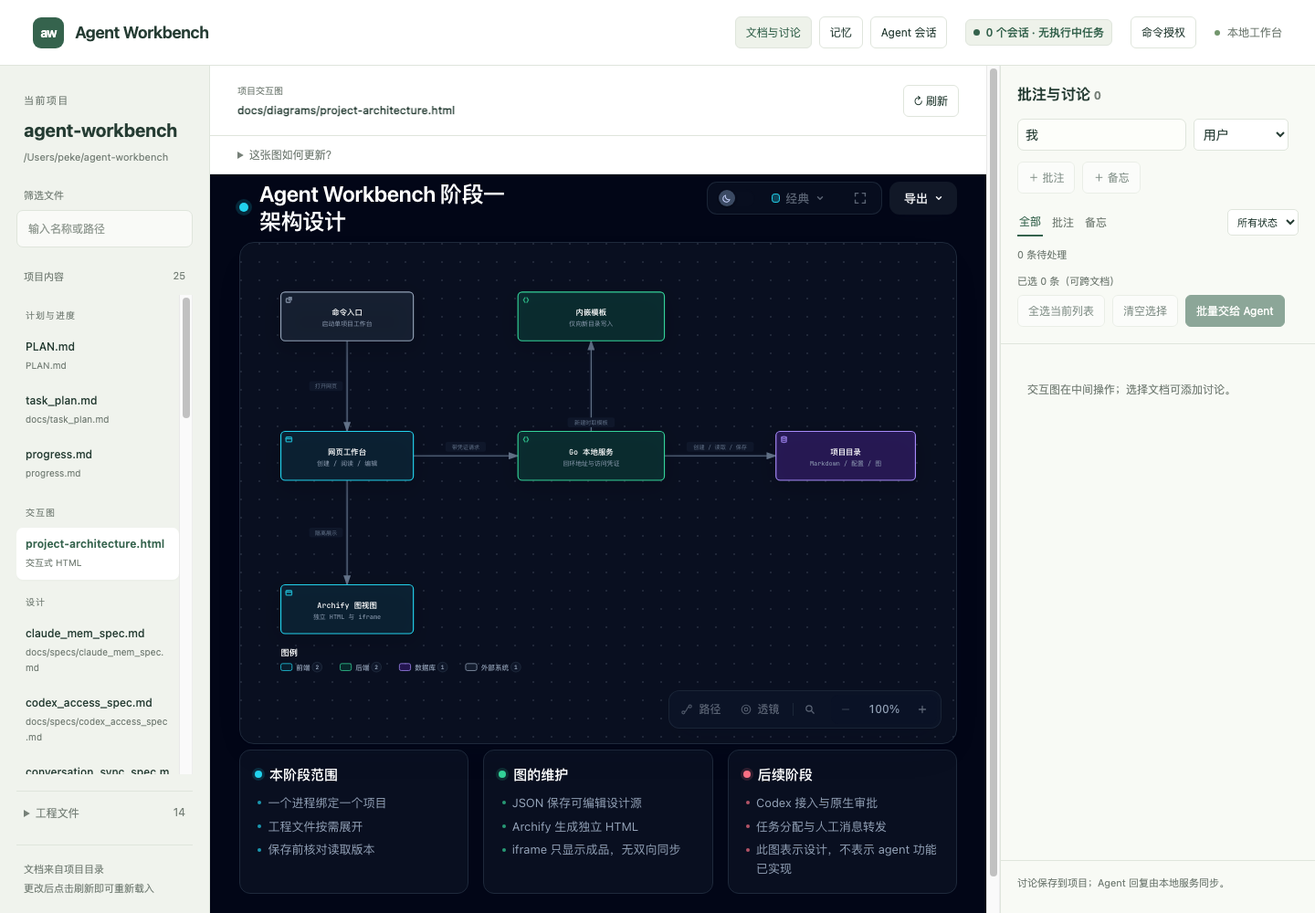
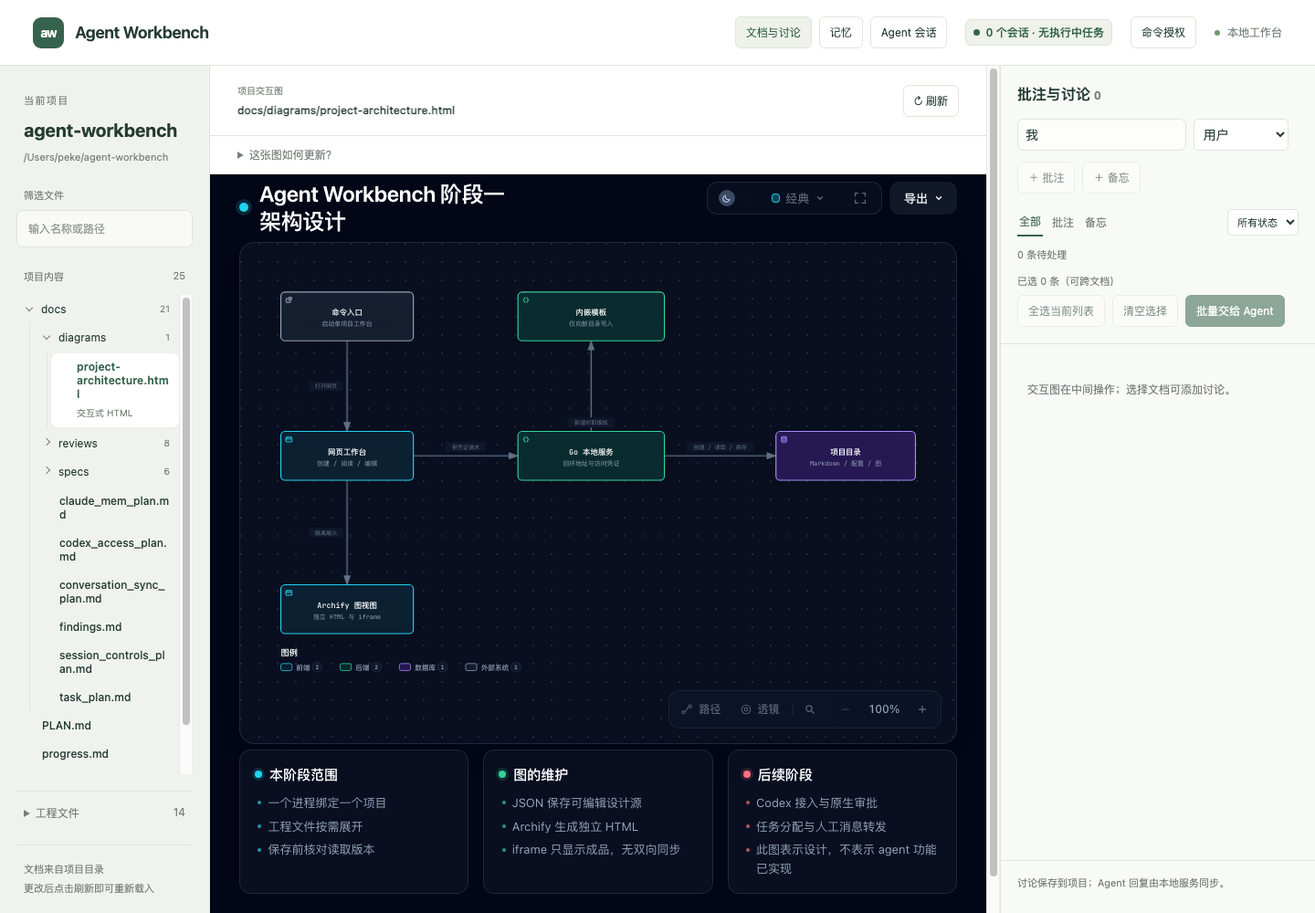
Show project files as a collapsible directory tree
Replace the flat, hardcoded category groups in the sidebar with the
project's real directory structure. Folders render as native details
elements (folders first, then files, sorted by name) in both the main
list and the engineering-files list, so same-named files such as the
README in docs/specs and docs/reviews are told apart by location.

Folder expansion state is kept per project in browser storage, with
docs expanded by default when storage is unavailable. Opening a
document reveals its parent folders, and filtering expands every folder
that holds a match without overwriting the saved state.

Scope the engineering-files summary styles to the direct child so they
do not leak into nested folder summaries. Document the behavior in the
project access spec and extend the browser smoke test with hierarchy,
collapse persistence and filter assertions.

Closes #8

Changed region(s): [[0.0, 0.465, 0.1562, 0.868], [0.0, 0.341, 0.125, 0.527]]

diff --git a/internal/server/web/style.css b/internal/server/web/style.css
@@ -1,9 +1,9 @@
-:root{color-scheme:light;--ink:#253c33;--muted:#768078;--green:#35634d;--line:#dfe5dc;--paper:#fcfdf9;--soft:#eef2ea;--white:#fff;font-family:Inter,-apple-system,BlinkMacSystemFont,"Segoe UI","PingFang SC",sans-serif;font-size:14px}*{box-sizing:border-box}body{margin:0;background:var(--paper);color:var(--ink)}[hidden]{display:none!important}button,input{font:inherit}button{cursor:pointer}button:disabled{cursor:wait;opacity:.55}a{color:var(--green)}button:focus-visible,a:focus-visible,summary:focus-visible{outline:2px solid var(--green);outline-offset:3px}.topbar{height:72px;display:flex;align-items:center;justify-content:space-between;padding:0 36px;border-bottom:1px solid var(--line);background:var(--white)}.brand{display:flex;align-items:center;gap:12px;color:var(--ink);text-decoration:none;font-weight:650;font-size:18px;letter-spacing:-.4px}.brand-icon{width:34px;height:34px;display:grid;place-items:center;background:var(--green);color:white;border-radius:9px;font-size:14px;letter-spacing:-1px}.local-tag{display:flex;align-items:center;gap:8px;color:var(--muted);font-size:12px}.local-tag i{height:6px;width:6px;border-radius:50%;background:#73966d}.eyebrow,.step{font-size:11px;letter-spacing:1.4px;color:var(--muted)}.welcome{max-width:1080px;margin:0 auto;padding:70px 40px}.intro h1{font-size:40px;font-weight:550;letter-spacing:-1.2px;margin:18px 0}.intro p{font-size:16px;line-height:1.8;color:var(--muted)}.entry-grid{display:grid;grid-template-columns:1fr 1fr;gap:24px;margin-top:42px}.entry-card{border:1px solid var(--line);border-radius:16px;background:var(--white);padding:30px;display:flex;flex-direction:column}.entry-card:first-child{border-top:3px solid var(--green)}.entry-card h2{font-size:23px;margin:18px 0 8px;font-weight:550}.entry-card p{color:var(--muted);line-height:1.7;margin:0 0 28px}.entry-card form{display:flex;flex-direction:column;flex:1}.entry-card label{font-size:12px;margin:0 0 9px}.entry-card input{margin-bottom:18px}input{width:100%;border:1px solid var(--line);border-radius:7px;background:#fdfefa;padding:12px;color:var(--ink);outline:none}input:focus{border-color:var(--green);box-shadow:0 0 0 3px #35634d10}input::placeholder{color:#939c94}small{font-size:11px;line-height:1.7;color:var(--muted);margin-bottom:28px}.primary,.secondary{border-radius:7px;padding:13px 16px;font-weight:550;display:flex;justify-content:space-between;margin-top:auto}.primary{background:var(--green);color:white;border:1px solid var(--green)}.secondary{background:var(--soft);color:var(--green);border:1px solid var(--line)}.footnote{font-size:12px;color:var(--muted);margin-top:28px}.error{padding:14px 28px;background:#fff1e9;border-bottom:1px solid #ebcabc;color:#8a482d;line-height:1.6;overflow-wrap:anywhere}.workspace{display:grid;grid-template-columns:265px minmax(0,1fr);height:calc(100vh - 72px)}.sidebar{background:#f0f3ed;border-right:1px solid var(--line);padding:28px 18px 16px;display:flex;flex-direction:column;min-height:0}.project-heading{padding:0 8px 16px}.project-heading h2{font-size:20px;margin:13px 0 9px;overflow-wrap:anywhere}.project-heading p{font-size:11px;color:var(--muted);line-height:1.7;overflow-wrap:anywhere;margin:0}.filter-label{font-size:11px;color:var(--muted);margin:8px 8px}.sidebar input{font-size:12px;background:#ffffff90}.list-heading{display:flex;justify-content:space-between;margin:24px 8px 12px;font-size:11px;color:var(--muted)}#document-list{overflow:auto;flex:1;min-height:0}.file-group{font-size:10px;color:var(--muted);padding:15px 10px 8px;letter-spacing:1px;text-transform:uppercase}.file-button{display:block;width:100%;text-align:left;padding:10px;border:0;border-radius:7px;background:transparent;color:var(--ink);margin:2px 0;overflow-wrap:anywhere}.file-button strong{display:block;font-size:12px;font-weight:500}.file-button small{display:block;font-size:10px;color:var(--muted);margin:5px 0 0}.file-button:hover{background:#ffffff80}.file-button.active{background:white;color:var(--green);box-shadow:0 1px 3px #21382008}.file-button.active strong{font-weight:650}.sidebar-foot{border-top:1px solid var(--line);margin-top:18px;padding:16px 8px 0;color:var(--muted);font-size:11px;line-height:1.9}.reader{min-width:0;overflow:auto;background:white;position:relative}.reader-toolbar{display:flex;align-items:center;justify-content:space-between;gap:16px;padding:20px 30px;border-bottom:1px solid var(--line);position:sticky;top:0;background:#fffffff5;z-index:2}.breadcrumb{min-width:0}.breadcrumb span{font-size:10px;color:var(--muted);display:block;margin-bottom:5px}.breadcrumb strong{font-size:12px;font-weight:550;overflow-wrap:anywhere}.reader-actions{display:flex;gap:8px;flex-shrink:0}.small-button{padding:8px 11px;background:white;border:1px solid var(--line);color:var(--ink);border-radius:6px;font-size:12px}.small-button[aria-pressed=true]{background:var(--soft);color:var(--green)}.warnings{background:#faf7ed;padding:13px 28px;border-bottom:1px solid #ebe3c8;color:#776a3a;font-size:12px}.warnings summary{cursor:pointer}.warnings li{line-height:1.9}.loading{padding:20px 40px;color:var(--muted)}.article{max-width:930px;margin:0 auto;padding:40px 48px 100px;line-height:1.9;font-size:14px;overflow-wrap:anywhere}.article h1{font-size:30px;letter-spacing:-.5px;line-height:1.4;margin:0 0 25px;font-weight:600}.article h2{font-size:21px;margin-top:36px;font-weight:600;border-bottom:1px solid var(--line);padding-bottom:10px}.article h3{font-size:17px;margin-top:28px}.article pre,.raw-content{font-family:ui-monospace,SFMono-Regular,Consolas,monospace;background:#f3f5ef;padding:18px;border-radius:7px;overflow:auto;font-size:12px;line-height:1.8}.article :not(pre)>code{padding:2px 5px;border-radius:4px;background:#eef1ea;font-size:.9em}.article blockquote{border-left:3px solid #b4c4ae;margin-left:0;padding:4px 20px;color:#637261}.article table{border-collapse:collapse;display:block;overflow:auto;width:100%;font-size:13px}.article th,.article td{border:1px solid var(--line);padding:10px 14px;text-align:left}.article th{background:var(--soft)}.article hr{border:0;border-top:1px solid var(--line);margin:30px 0}.raw-content{margin:30px;white-space:pre-wrap;overflow-wrap:anywhere}.empty{padding:90px 40px;text-align:center;color:var(--muted)}.empty>span{font-size:44px;color:#a9b7a2}.empty h2{font-size:20px;font-weight:500}.empty p{font-size:13px;line-height:1.8}.empty-list{font-size:12px;color:var(--muted);padding:15px}#diagram-frame{width:100%;height:calc(100vh - 155px);min-height:600px;border:0;background:white}
+:root{color-scheme:light;--ink:#253c33;--muted:#768078;--green:#35634d;--line:#dfe5dc;--paper:#fcfdf9;--soft:#eef2ea;--white:#fff;font-family:Inter,-apple-system,BlinkMacSystemFont,"Segoe UI","PingFang SC",sans-serif;font-size:14px}*{box-sizing:border-box}body{margin:0;background:var(--paper);color:var(--ink)}[hidden]{display:none!important}button,input{font:inherit}button{cursor:pointer}button:disabled{cursor:wait;opacity:.55}a{color:var(--green)}button:focus-visible,a:focus-visible,summary:focus-visible{outline:2px solid var(--green);outline-offset:3px}.topbar{height:72px;display:flex;align-items:center;justify-content:space-between;padding:0 36px;border-bottom:1px solid var(--line);background:var(--white)}.brand{display:flex;align-items:center;gap:12px;color:var(--ink);text-decoration:none;font-weight:650;font-size:18px;letter-spacing:-.4px}.brand-icon{width:34px;height:34px;display:grid;place-items:center;background:var(--green);color:white;border-radius:9px;font-size:14px;letter-spacing:-1px}.local-tag{display:flex;align-items:center;gap:8px;color:var(--muted);font-size:12px}.local-tag i{height:6px;width:6px;border-radius:50%;background:#73966d}.eyebrow,.step{font-size:11px;letter-spacing:1.4px;color:var(--muted)}.welcome{max-width:1080px;margin:0 auto;padding:70px 40px}.intro h1{font-size:40px;font-weight:550;letter-spacing:-1.2px;margin:18px 0}.intro p{font-size:16px;line-height:1.8;color:var(--muted)}.entry-grid{display:grid;grid-template-columns:1fr 1fr;gap:24px;margin-top:42px}.entry-card{border:1px solid var(--line);border-radius:16px;background:var(--white);padding:30px;display:flex;flex-direction:column}.entry-card:first-child{border-top:3px solid var(--green)}.entry-card h2{font-size:23px;margin:18px 0 8px;font-weight:550}.entry-card p{color:var(--muted);line-height:1.7;margin:0 0 28px}.entry-card form{display:flex;flex-direction:column;flex:1}.entry-card label{font-size:12px;margin:0 0 9px}.entry-card input{margin-bottom:18px}input{width:100%;border:1px solid var(--line);border-radius:7px;background:#fdfefa;padding:12px;color:var(--ink);outline:none}input:focus{border-color:var(--green);box-shadow:0 0 0 3px #35634d10}input::placeholder{color:#939c94}small{font-size:11px;line-height:1.7;color:var(--muted);margin-bottom:28px}.primary,.secondary{border-radius:7px;padding:13px 16px;font-weight:550;display:flex;justify-content:space-between;margin-top:auto}.primary{background:var(--green);color:white;border:1px solid var(--green)}.secondary{background:var(--soft);color:var(--green);border:1px solid var(--line)}.footnote{font-size:12px;color:var(--muted);margin-top:28px}.error{padding:14px 28px;background:#fff1e9;border-bottom:1px solid #ebcabc;color:#8a482d;line-height:1.6;overflow-wrap:anywhere}.workspace{display:grid;grid-template-columns:265px minmax(0,1fr);height:calc(100vh - 72px)}.sidebar{background:#f0f3ed;border-right:1px solid var(--line);padding:28px 18px 16px;display:flex;flex-direction:column;min-height:0}.project-heading{padding:0 8px 16px}.project-heading h2{font-size:20px;margin:13px 0 9px;overflow-wrap:anywhere}.project-heading p{font-size:11px;color:var(--muted);line-height:1.7;overflow-wrap:anywhere;margin:0}.filter-label{font-size:11px;color:var(--muted);margin:8px 8px}.sidebar input{font-size:12px;background:#ffffff90}.list-heading{display:flex;justify-content:space-between;margin:24px 8px 12px;font-size:11px;color:var(--muted)}#document-list{overflow:auto;flex:1;min-height:0}.file-button{display:block;width:100%;text-align:left;padding:7px 10px 7px 28px;border:0;border-radius:7px;background:transparent;color:var(--ink);margin:2px 0;overflow-wrap:anywhere}.file-button strong{display:block;font-size:12px;font-weight:500}.file-button small{display:block;font-size:10px;color:var(--muted);margin:5px 0 0}.file-button:hover{background:#ffffff80}.file-button.active{background:white;color:var(--green);box-shadow:0 1px 3px #21382008}.file-button.active strong{font-weight:650}.sidebar-foot{border-top:1px solid var(--line);margin-top:18px;padding:16px 8px 0;color:var(--muted);font-size:11px;line-height:1.9}.reader{min-width:0;overflow:auto;background:white;position:relative}.reader-toolbar{display:flex;align-items:center;justify-content:space-between;gap:16px;padding:20px 30px;border-bottom:1px solid var(--line);position:sticky;top:0;background:#fffffff5;z-index:2}.breadcrumb{min-width:0}.breadcrumb span{font-size:10px;color:var(--muted);display:block;margin-bottom:5px}.breadcrumb strong{font-size:12px;font-weight:550;overflow-wrap:anywhere}.reader-actions{display:flex;gap:8px;flex-shrink:0}.small-button{padding:8px 11px;background:white;border:1px solid var(--line);color:var(--ink);border-radius:6px;font-size:12px}.small-button[aria-pressed=true]{background:var(--soft);color:var(--green)}.warnings{background:#faf7ed;padding:13px 28px;border-bottom:1px solid #ebe3c8;color:#776a3a;font-size:12px}.warnings summary{cursor:pointer}.warnings li{line-height:1.9}.loading{padding:20px 40px;color:var(--muted)}.article{max-width:930px;margin:0 auto;padding:40px 48px 100px;line-height:1.9;font-size:14px;overflow-wrap:anywhere}.article h1{font-size:30px;letter-spacing:-.5px;line-height:1.4;margin:0 0 25px;font-weight:600}.article h2{font-size:21px;margin-top:36px;font-weight:600;border-bottom:1px solid var(--line);padding-bottom:10px}.article h3{font-size:17px;margin-top:28px}.article pre,.raw-content{font-family:ui-monospace,SFMono-Regular,Consolas,monospace;background:#f3f5ef;padding:18px;border-radius:7px;overflow:auto;font-size:12px;line-height:1.8}.article :not(pre)>code{padding:2px 5px;border-radius:4px;background:#eef1ea;font-size:.9em}.article blockquote{border-left:3px solid #b4c4ae;margin-left:0;padding:4px 20px;color:#637261}.article table{border-collapse:collapse;display:block;overflow:auto;width:100%;font-size:13px}.article th,.article td{border:1px solid var(--line);padding:10px 14px;text-align:left}.article th{background:var(--soft)}.article hr{border:0;border-top:1px solid var(--line);margin:30px 0}.raw-content{margin:30px;white-space:pre-wrap;overflow-wrap:anywhere}.empty{padding:90px 40px;text-align:center;color:var(--muted)}.empty>span{font-size:44px;color:#a9b7a2}.empty h2{font-size:20px;font-weight:500}.empty p{font-size:13px;line-height:1.8}.empty-list{font-size:12px;color:var(--muted);padding:15px}#diagram-frame{width:100%;height:calc(100vh - 155px);min-height:600px;border:0;background:white}
 @media(max-width:760px){.topbar{padding:0 18px;height:60px}.brand{font-size:16px}.local-tag{font-size:10px}.welcome{padding:36px 20px}.intro h1{font-size:31px}.entry-grid{grid-template-columns:1fr;gap:18px;margin-top:30px}.entry-card{padding:24px}.workspace{height:auto;display:block}.sidebar{padding:18px;border-right:0;border-bottom:1px solid var(--line)}.project-heading{padding-bottom:5px}.project-heading h2{margin:7px 0;font-size:18px}.sidebar-foot{display:none}#document-list{max-height:180px}.list-heading{margin-top:14px}.reader{overflow:visible}.reader-toolbar{padding:14px 18px}.article{padding:28px 22px 70px}.article h1{font-size:25px}.raw-content{margin:20px}.warnings{padding:12px 20px}#diagram-frame{height:75vh;min-height:520px}}
 
-.file-navigation{overflow:auto;flex:1;min-height:0}#document-list{overflow:visible}.engineering-files{margin-top:18px;border-top:1px solid var(--line);padding-top:15px}.engineering-files summary{font-size:12px;color:var(--muted);cursor:pointer;padding:0 8px 8px}.engineering-files summary span{float:right}.editor-panel{padding:28px;display:flex;flex-direction:column;min-height:calc(100vh - 170px)}.editor-panel label{font-size:12px;color:var(--muted);margin-bottom:12px}.editor-panel textarea{width:100%;flex:1;min-height:500px;resize:vertical;border:1px solid var(--line);border-radius:7px;padding:20px;font:13px/1.8 ui-monospace,SFMono-Regular,Consolas,monospace;color:var(--ink);background:#fcfdf9;outline:none}.editor-panel textarea:focus{border-color:var(--green)}.editor-panel p{font-size:11px;color:var(--muted)}.save-button{background:var(--green);color:white;border-color:var(--green)}.save-status{font-size:11px;color:var(--muted);align-self:center}.diagram-help{padding:12px 30px;font-size:12px;color:var(--muted);border-bottom:1px solid var(--line)}.diagram-help summary{cursor:pointer}.diagram-help p{line-height:1.8}.reader-actions{flex-wrap:wrap;justify-content:flex-end}@media(max-width:760px){.file-navigation{max-height:230px}#document-list{max-height:none}.editor-panel{padding:20px;min-height:60vh}.editor-panel textarea{min-height:400px}.reader-toolbar{align-items:flex-start}.reader-actions{max-width:220px}.save-status{width:100%;text-align:right}}
+.file-navigation{overflow:auto;flex:1;min-height:0}#document-list{overflow:visible}.engineering-files{margin-top:18px;border-top:1px solid var(--line);padding-top:15px}.engineering-files>summary{font-size:12px;color:var(--muted);cursor:pointer;padding:0 8px 8px}.engineering-files>summary span{float:right}.editor-panel{padding:28px;display:flex;flex-direction:column;min-height:calc(100vh - 170px)}.editor-panel label{font-size:12px;color:var(--muted);margin-bottom:12px}.editor-panel textarea{width:100%;flex:1;min-height:500px;resize:vertical;border:1px solid var(--line);border-radius:7px;padding:20px;font:13px/1.8 ui-monospace,SFMono-Regular,Consolas,monospace;color:var(--ink);background:#fcfdf9;outline:none}.editor-panel textarea:focus{border-color:var(--green)}.editor-panel p{font-size:11px;color:var(--muted)}.save-button{background:var(--green);color:white;border-color:var(--green)}.save-status{font-size:11px;color:var(--muted);align-self:center}.diagram-help{padding:12px 30px;font-size:12px;color:var(--muted);border-bottom:1px solid var(--line)}.diagram-help summary{cursor:pointer}.diagram-help p{line-height:1.8}.reader-actions{flex-wrap:wrap;justify-content:flex-end}@media(max-width:760px){.file-navigation{max-height:230px}#document-list{max-height:none}.editor-panel{padding:20px;min-height:60vh}.editor-panel textarea{min-height:400px}.reader-toolbar{align-items:flex-start}.reader-actions{max-width:220px}.save-status{width:100%;text-align:right}}
 
-.engineering-files{flex-shrink:0;max-height:240px;overflow:auto}.engineering-files summary{position:sticky;top:0;background:#f0f3ed}.engineering-files:not([open]){overflow:visible}
+.engineering-files{flex-shrink:0;max-height:240px;overflow:auto}.engineering-files>summary{position:sticky;top:0;background:#f0f3ed}.engineering-files:not([open]){overflow:visible}
 
 .workspace{grid-template-columns:230px minmax(0,1fr) 345px}.discussion{min-width:0;min-height:0;display:flex;flex-direction:column;border-left:1px solid var(--line);background:#f8faf5}.discussion-head{padding:20px 18px 8px;border-bottom:1px solid var(--line)}.discussion h2{font-size:16px;margin:0 0 16px}.discussion h2 span{font-size:12px;color:var(--muted)}.identity-line{display:flex;gap:8px}.identity-line input{padding:8px;width:60%}select,textarea{font:inherit;color:var(--ink)}select{max-width:100%;border:1px solid var(--line);background:white;border-radius:5px;padding:6px}.discussion-actions{display:flex;gap:8px;flex-wrap:wrap;margin-top:12px}.panel-tabs{display:flex;align-items:center;gap:8px;flex-wrap:wrap;margin-top:16px}.panel-tabs button{background:none;border:0;padding:6px 2px;font-size:12px;color:var(--muted)}.panel-tabs button[aria-pressed=true]{color:var(--green);border-bottom:2px solid var(--green)}.panel-tabs select{font-size:11px;margin-left:auto}.discussion-head p,.discussion-footer p{font-size:11px;color:var(--muted);line-height:1.7}.thread-list{overflow:auto;flex:1;padding:14px}.thread{padding:14px;border:1px solid var(--line);border-radius:9px;background:white;margin-bottom:12px;overflow-wrap:anywhere}.thread.resolved{background:#f2f5ef}.thread-top{display:flex;justify-content:space-between;font-size:11px;color:var(--muted);gap:8px}.thread-quote{display:block;width:100%;text-align:left;font-size:12px;line-height:1.7;border:0;border-left:3px solid #b6cbb6;padding:8px 10px;background:var(--soft);color:var(--ink);margin-top:12px;white-space:pre-wrap;overflow-wrap:anywhere}.message{padding:14px 0 8px;border-bottom:1px solid #edf0e9}.message-meta{font-size:11px;display:flex;gap:8px;align-items:baseline;flex-wrap:wrap}.message-meta strong{font-size:12px}.message-meta span{color:var(--muted)}.message-meta .rebuttal{color:#a46e36}.message-meta .decision{color:var(--green)}.message-body{font-size:13px;white-space:pre-wrap;line-height:1.8;margin:8px 0}.message time{font-size:10px;color:var(--muted)}.thread-bottom{display:flex;gap:8px;flex-wrap:wrap;margin-top:12px}.thread-bottom button{font-size:11px;padding:5px;border:0;background:transparent;color:var(--green)}.reply-form{margin-top:12px}.reply-form textarea{width:100%;min-height:85px;padding:10px;resize:vertical;border:1px solid var(--line);border-radius:6px;background:var(--paper)}.reply-actions{display:flex;justify-content:space-between;gap:8px;margin-top:8px}.reply-actions select{font-size:11px}.discussion-footer{padding:4px 18px 12px;border-top:1px solid var(--line)}.anchor-warning,.due{font-size:11px;color:#9c743c;line-height:1.6}.anchored{background:#edf2d8;box-shadow:0 0 0 5px #edf2d8;border-radius:3px}#selection-tool{position:fixed;z-index:10;background:var(--green);color:white;box-shadow:0 3px 15px #0002}#discussion-dialog{width:min(560px,calc(100% - 30px));max-height:85vh;overflow:auto;border:1px solid var(--line);border-radius:12px;padding:24px;color:var(--ink)}#discussion-dialog::backdrop{background:#20352955}#discussion-dialog h2{font-size:20px;margin:0 0 18px}#discussion-dialog textarea{width:100%;min-height:145px;padding:12px;resize:vertical;border:1px solid var(--line);border-radius:6px}#discussion-dialog label{display:block;font-size:12px;line-height:1.8;margin-bottom:12px}#discussion-dialog select{display:block;margin-top:6px}#discussion-dialog blockquote{border-left:3px solid #b6cbb6;padding:10px;background:var(--soft);margin:0 0 16px;white-space:pre-wrap;overflow-wrap:anywhere}#discussion-dialog p{font-size:12px;line-height:1.8}#discussion-dialog-error{color:#9c482c}.dialog-actions{display:flex;justify-content:flex-end;gap:10px;margin-top:20px}@media(min-width:761px) and (max-width:1150px){.workspace{grid-template-columns:190px minmax(0,1fr) 300px}.article{padding:32px 24px}.reader-toolbar{padding:15px;flex-wrap:wrap}.reader-actions{max-width:100%}}@media(max-width:760px){.workspace{display:block}.discussion{border-left:0;border-top:1px solid var(--line)}.thread-list{max-height:65vh}.discussion-head{padding:20px}.discussion-footer{padding:0 20px 15px}}
 
@@ -25,3 +25,4 @@
 
 .agent-activity{margin:0;padding:9px 14px;border-bottom:1px solid var(--line);font-size:13px;background:#f1f6fa;color:#33465a}.agent-activity[data-state="running"]{background:#eaf5ef;color:#226344}.agent-activity[data-state="running"]::before{content:"";display:inline-block;width:8px;height:8px;border-radius:50%;background:currentColor;margin-right:8px;animation:activity-pulse 1.4s ease-in-out infinite}.agent-activity[data-state="waiting"]{background:#fff4db;color:#77551f}.agent-notices{position:fixed;right:16px;top:70px;z-index:30;display:grid;gap:6px;max-width:min(420px,calc(100vw - 32px))}.interaction-notice{display:flex;border:1px solid #b8cec0;background:#f1f9f3;border-radius:8px;box-shadow:0 3px 12px #0001}.interaction-notice button{border:0;background:transparent;color:#245338;padding:10px;cursor:pointer;text-align:left}.interaction-notice button:first-child{flex:1}.authorization-rule{display:flex;gap:12px;justify-content:space-between;align-items:center;padding:9px 0;border-bottom:1px solid var(--line);overflow-wrap:anywhere}.agent-controls{flex-wrap:wrap}@keyframes activity-pulse{50%{opacity:.3}}@media(prefers-reduced-motion:reduce){.agent-activity[data-state="running"]::before{animation:none}}
 .memory-workspace{display:flex;flex-direction:column;height:calc(100vh - 66px);min-height:480px;background:var(--paper)}.memory-workspace h2{margin:0;font-size:20px}.memory-workspace .reader-toolbar p{margin:6px 0 0;font-size:12px}.memory-connect-form{display:flex;align-items:center;gap:10px;padding:12px 20px;flex-wrap:wrap}.memory-connect-form input{max-width:480px;flex:1;min-width:200px}.memory-connect-form span{font-size:12px}.memory-workspace>details{padding:10px 20px;border-block:1px solid var(--line);max-height:38vh;overflow:auto}.memory-workspace>iframe{flex:1;width:100%;border:0;min-height:300px}.memory-workspace pre{white-space:pre-wrap;overflow-wrap:anywhere;font-size:12px}.memory-workspace select{max-width:100%}@media(max-width:700px){.memory-workspace{height:auto;min-height:calc(100vh - 90px)}.memory-workspace>iframe{min-height:70vh}.memory-connect-form{padding:10px}.topbar-actions{flex-wrap:wrap}.local-tag{display:none}.agent-toolbar{flex-wrap:wrap}.agent-controls{gap:4px}}
+.tree-folder>summary{list-style:none;display:flex;align-items:center;gap:8px;padding:7px 10px;border-radius:7px;cursor:pointer;font-size:12px;color:var(--ink)}.tree-folder>summary::-webkit-details-marker{display:none}.tree-folder>summary::before{content:"";flex-shrink:0;width:5px;height:5px;margin:0 2px 2px 1px;border-right:1.5px solid var(--muted);border-bottom:1.5px solid var(--muted);transform:rotate(-45deg);transition:transform .15s}.tree-folder[open]>summary::before{transform:rotate(45deg)}.tree-folder>summary span{flex:1;min-width:0;overflow-wrap:anywhere}.tree-folder>summary small{margin:0;font-size:10px}.tree-folder>summary:hover{background:#ffffff80}.tree-children{margin-left:14px;padding-left:4px;border-left:1px solid var(--line)}

diff --git a/internal/server/web/app.js b/internal/server/web/app.js
@@ -57,21 +57,55 @@ function isEngineering(item) {
     || path.startsWith('docs/standards/') || path.endsWith('/spec-template.md') || path.endsWith('/README.md')
     || /^docs\/reviews\/(stage-one|initialization|discussion)/.test(path);
 }
+// 目录展开状态只是浏览便利，按项目保存在本机浏览器；存储不可用时退回默认展开 docs。
+const openFolders=new Set();
+let folderStateKey='';
+function loadFolderState(){
+  const key='workbench-folders:'+(project?.root||'');if(key===folderStateKey)return;
+  folderStateKey=key;openFolders.clear();
+  try{for(const path of JSON.parse(localStorage.getItem(key)||'["docs"]'))openFolders.add(String(path));}catch{openFolders.add('docs');}
+}
+function saveFolderState(){try{localStorage.setItem(folderStateKey,JSON.stringify([...openFolders]));}catch{}}
+function revealPath(path){const parts=path.split('/');for(let i=1;i<parts.length;i++)openFolders.add(parts.slice(0,i).join('/'));saveFolderState();}
+function buildTree(items){
+  const root={path:'',folders:new Map(),files:[],count:0};
+  for(const item of items){
+    const parts=item.path.split('/');let node=root;node.count++;
+    for(let i=0;i<parts.length-1;i++){
+      if(!node.folders.has(parts[i]))node.folders.set(parts[i],{name:parts[i],path:parts.slice(0,i+1).join('/'),folders:new Map(),files:[],count:0});
+      node=node.folders.get(parts[i]);node.count++;
+    }
+    node.files.push(item);
+  }
+  return root;
+}
 function renderList() {
+  loadFolderState();
   const query=$('filter').value.trim().toLocaleLowerCase();
   const all=entries().filter(d=>d.path.toLocaleLowerCase().includes(query));
   const normal=all.filter(d=>!isEngineering(d)),engineering=all.filter(isEngineering);
   $('document-count').textContent=String(normal.length);$('engineering-count').textContent=String(engineering.length);$('engineering-files').hidden=!engineering.length;
-  function draw(container,items) {
-    container.replaceChildren();const groups=new Map();
-    for(const item of items){const group=item.kind==='diagram'?'交互图':item.path==='PLAN.md'||item.path==='docs/task_plan.md'||item.path==='progress.md'?'计划与进度':item.path.startsWith('docs/specs/')?'设计':item.path.startsWith('docs/reviews/')?'评审':item.path==='docs/findings.md'?'发现':item.path==='README.md'?'项目说明':'其他文件';if(!groups.has(group))groups.set(group,[]);groups.get(group).push(item);}
-    const groupOrder=["计划与进度","交互图","设计","发现","评审","项目说明","其他文件"];
-    for(const [group,items] of [...groups].sort((a,b)=>groupOrder.indexOf(a[0])-groupOrder.indexOf(b[0]))){const title=document.createElement('div');title.className='file-group';title.textContent=group;container.append(title);
-      for(const item of items){const button=document.createElement('button');button.type='button';button.className='file-button';button.dataset.path=item.path;button.classList.toggle('active',item.path===selected);button.setAttribute('aria-current',item.path===selected?'page':'false');const name=document.createElement('strong');name.textContent=item.path.split('/').at(-1);const detail=document.createElement('small');detail.textContent=item.kind==='diagram'?'交互式 HTML':item.path;button.append(name,detail);button.addEventListener('click',()=>loadEntry(item));container.append(button);}
+  const byName=(a,b)=>a.localeCompare(b,'zh-CN',{numeric:true});
+  function drawNode(container,node){
+    for(const folder of [...node.folders.values()].sort((a,b)=>byName(a.name,b.name))){
+      const details=document.createElement('details'),summary=document.createElement('summary'),name=document.createElement('span'),count=document.createElement('small'),children=document.createElement('div');
+      details.className='tree-folder';details.dataset.folder=folder.path;details.open=!!query||openFolders.has(folder.path);
+      name.textContent=folder.name;count.textContent=String(folder.count);summary.title=folder.path;summary.append(name,count);
+      summary.addEventListener('click',()=>{if(details.open)openFolders.delete(folder.path);else openFolders.add(folder.path);saveFolderState();});
+      children.className='tree-children';drawNode(children,folder);details.append(summary,children);container.append(details);
     }
+    for(const item of node.files.sort((a,b)=>byName(a.path,b.path))){
+      const button=document.createElement('button');button.type='button';button.className='file-button';button.dataset.path=item.path;button.title=item.path;
+      button.classList.toggle('active',item.path===selected);button.setAttribute('aria-current',item.path===selected?'page':'false');
+      const name=document.createElement('strong');name.textContent=item.path.split('/').at(-1);button.append(name);
+      if(item.kind==='diagram'){const detail=document.createElement('small');detail.textContent='交互式 HTML';button.append(detail);}
+      button.addEventListener('click',()=>loadEntry(item));container.append(button);
+    }
+  }
+  for(const [container,items] of [[$('document-list'),normal],[$('engineering-list'),engineering]]){
+    container.replaceChildren();drawNode(container,buildTree(items));
     if(!items.length){const empty=document.createElement('p');empty.className='empty-list';empty.textContent=query?'没有匹配的文件':'暂无文件';container.append(empty);}
   }
-  draw($('document-list'),normal);draw($('engineering-list'),engineering);
 }
 function dirty(){return editing&&$('markdown-editor').value!==markdown;}
 function leaveEditor(){
@@ -106,7 +140,7 @@ function renderMarkdown() {
 }
 async function loadEntry(item) {
   if(!leaveEditor())return;
-  resetDiscussionSelection();const sequence=++readSequence;selected=item.path;selectedKind=item.kind;markdown='';$('article').replaceChildren();$('raw-content').textContent='';$('raw-button').disabled=true;$('edit-button').disabled=true;editable=false;revision='';$('save-status').textContent='';renderList();renderThreads();if(isEngineering(item))$('engineering-files').open=true;showError(null);
+  resetDiscussionSelection();const sequence=++readSequence;selected=item.path;selectedKind=item.kind;loadFolderState();revealPath(item.path);markdown='';$('article').replaceChildren();$('raw-content').textContent='';$('raw-button').disabled=true;$('edit-button').disabled=true;editable=false;revision='';$('save-status').textContent='';renderList();renderThreads();if(isEngineering(item))$('engineering-files').open=true;showError(null);
   $('current-path').textContent=item.path;$('view-kind').textContent=item.kind==='diagram'?'项目交互图':'项目文档';$('loading').hidden=false;$('empty').hidden=true;
   $('article').hidden=true;$('raw-content').hidden=true;$('diagram-frame').hidden=true;$('diagram-frame').removeAttribute('srcdoc');$('raw-button').hidden=item.kind==='diagram';$('edit-button').hidden=item.kind==='diagram';$('diagram-help').hidden=item.kind!=='diagram';
   try {
